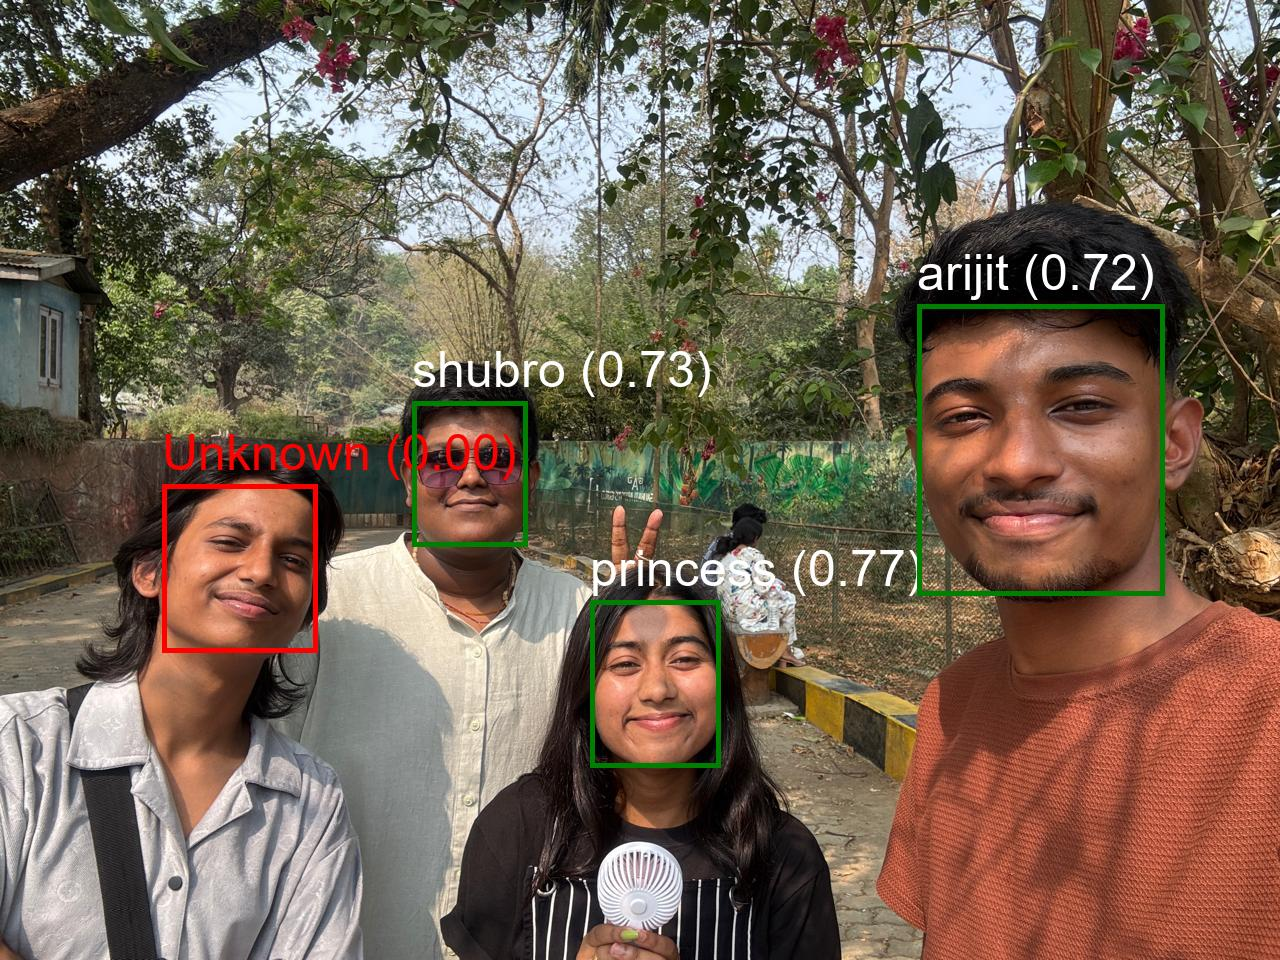
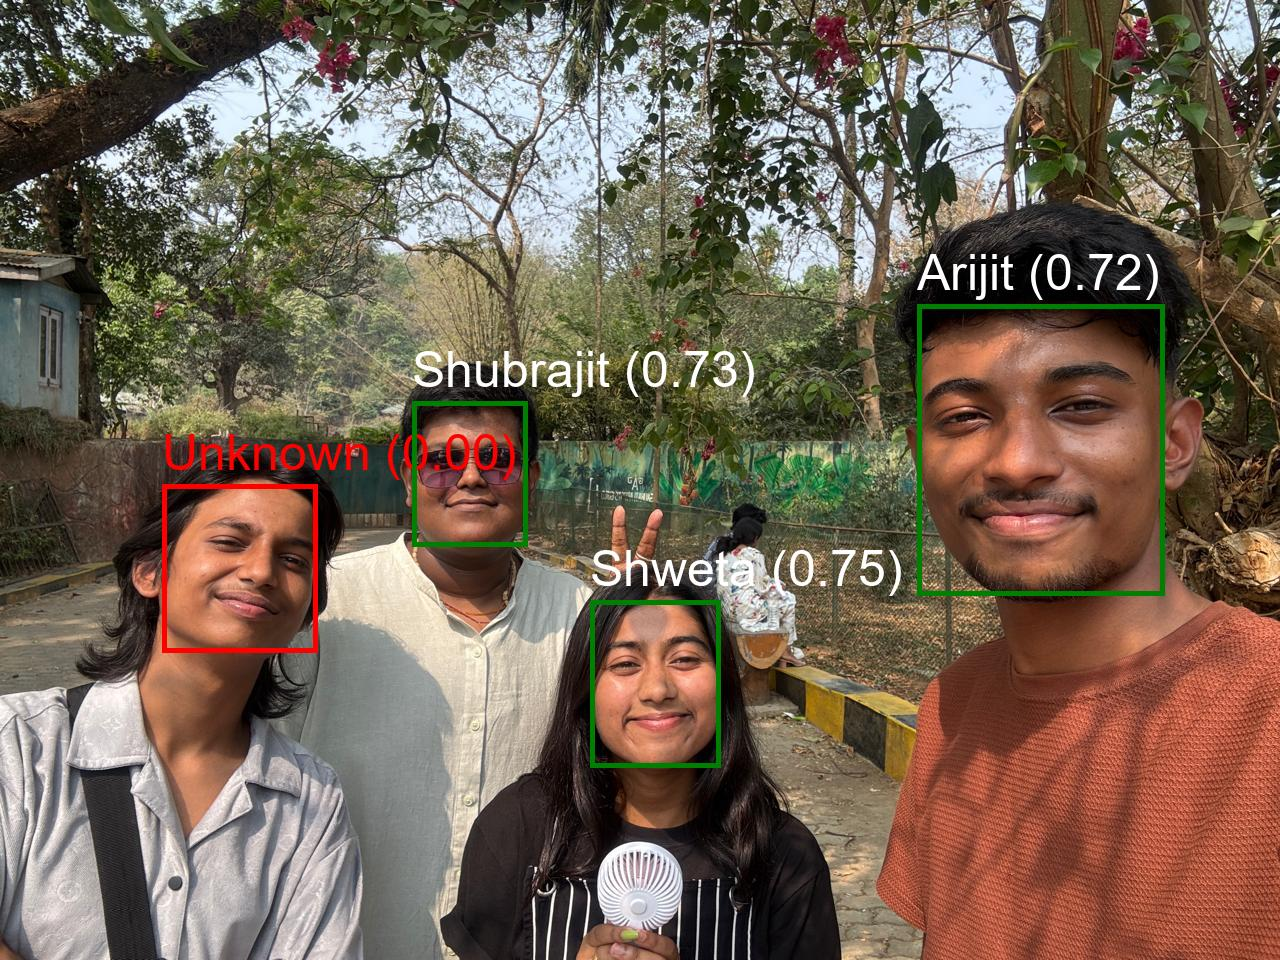
Initial

Changed region(s): [[0.4688, 0.5625, 0.7188, 0.625], [0.3125, 0.3438, 0.5938, 0.4062], [0.7188, 0.25, 0.9062, 0.3125]]

diff --git a/recognize.py b/recognize.py
@@ -1,34 +1,42 @@
 import os
 import cv2
 import numpy as np
-import torch
 from insightface.app import FaceAnalysis
 import pickle
 import matplotlib.pyplot as plt
 from PIL import Image, ImageDraw, ImageFont
 
-# Paths
+# Define Paths for Input and Output  
+# The `test-images` folder contains images to be processed.  
+# The `output` folder stores the annotated images after face recognition.  
 TEST_FOLDER = "test-images"
 OUTPUT_FOLDER = "output"
 os.makedirs(OUTPUT_FOLDER, exist_ok=True)
 
-# Load trained face embeddings
+# Load Stored Face Embeddings  
+# Precomputed face embeddings are loaded from a pickle file.  
+# The embeddings are normalized to unit vectors to allow cosine similarity comparisons.  
 with open("face_embeddings.pkl", "rb") as f:
     known_faces = pickle.load(f)
 
-# Convert known embeddings to unit vectors (normalize for cosine similarity)
 for name in known_faces:
-    known_faces[name] /= np.linalg.norm(known_faces[name])
+    known_faces[name] /= np.linalg.norm(known_faces[name])  # Normalize vectors
 
-# Initialize ArcFace Model
+# Initialize Face Recognition Model  
+# The InsightFace ArcFace model (`buffalo_l`) is used for face detection and feature extraction.  
+# The model runs on the CPU for compatibility.  
 app = FaceAnalysis(name='buffalo_l', providers=['CPUExecutionProvider'])
 app.prepare(ctx_id=0)
 
+# Define Function for Cosine Similarity Calculation  
+# Cosine similarity measures the similarity between two face embeddings.  
+# The score ranges from -1 to 1, where 1 means identical faces.  
 def cosine_similarity(a, b):
-    """Compute cosine similarity between two vectors."""
     return np.dot(a, b) / (np.linalg.norm(a) * np.linalg.norm(b))
 
-# Loop through all test images
+# Process Each Image in the Test Folder  
+# For each image, faces are detected, embeddings are extracted, and they are  
+# compared against stored embeddings to identify known individuals.  
 for image_name in os.listdir(TEST_FOLDER):
     image_path = os.path.join(TEST_FOLDER, image_name)
     img = cv2.imread(image_path)
@@ -40,52 +48,61 @@ for image_name in os.listdir(TEST_FOLDER):
     img_rgb = cv2.cvtColor(img, cv2.COLOR_BGR2RGB)
     faces = app.get(img_rgb)
 
-    # Convert image to PIL for annotation
+    # Convert Image to PIL Format for Annotation  
+    # The image is converted from OpenCV format to PIL to allow easier drawing of bounding boxes and text.  
     pil_img = Image.fromarray(img_rgb)
     draw = ImageDraw.Draw(pil_img)
 
+    # Load Font for Name Labels  
+    # A clear font (Arial) is used to display recognized names. If unavailable, a default font is used.  
     try:
-        font = ImageFont.truetype("arial.ttf", 50)  # Larger, clearer font
+        font = ImageFont.truetype("arial.ttf", 50)
     except:
         font = ImageFont.load_default()
 
-    recognized_names = set()  # Track names to avoid duplicates
+    recognized_names = set()  # Track recognized names to prevent duplicate annotations
 
     print(f"\nProcessing {image_name}:")
     for face in faces:
         embedding = face.normed_embedding
-        embedding /= np.linalg.norm(embedding)  # Normalize for cosine similarity
+        embedding /= np.linalg.norm(embedding)  # Normalize embedding vector
         bbox = face.bbox.astype(int)
 
-        # Compare with stored embeddings using cosine similarity
+        # Compare with Stored Embeddings to Identify the Person  
+        # Each detected face is compared with all stored embeddings using cosine similarity.  
         best_match = "Unknown"
-        best_similarity = 0.00  # Default for unknown
+        best_similarity = 0.00  
 
         for name, known_emb in known_faces.items():
             similarity = cosine_similarity(embedding, known_emb)
+
+            # Accept match if similarity is above 0.55 and the person is not already detected  
             if similarity > best_similarity and similarity > 0.55 and name not in recognized_names:
-                best_match = name
+                best_match = name.capitalize()
                 best_similarity = similarity
 
-        recognized_names.add(best_match)  # Add to set to prevent repeats
+        recognized_names.add(best_match)  # Prevent multiple detections of the same person
 
-        # Draw bounding box & name label
+        # Draw Bounding Box and Name Label  
+        # Faces are highlighted with bounding boxes, and their names are displayed above them.  
         box_color = "red" if best_match == "Unknown" else "green"
         draw.rectangle([bbox[0], bbox[1], bbox[2], bbox[3]], outline=box_color, width=5)
 
-        # Adjust text position
+        # Define Text Position and Color  
         text_position = (bbox[0], bbox[1] - 60)
         text_color = "red" if best_match == "Unknown" else "white"
-        
-        # Ensure 0.00 for unknowns
+
+        # Ensure similarity is displayed as 0.00 for unknown faces  
         similarity_display = f"{best_similarity:.2f}" if best_match != "Unknown" else "0.00"
-        
+
+        # Draw the Recognized Name and Similarity Score on the Image  
         draw.text(text_position, f"{best_match} ({similarity_display})", fill=text_color, font=font)
 
-        # Print to console with adjusted similarity score
+        # Print Recognition Result in Console  
         print(f" - Detected: {best_match} (Similarity: {similarity_display})")
 
-    # Save the processed image
+    # Save the Annotated Image  
+    # The processed image is saved in the `output` folder with the same filename.  
     output_path = os.path.join(OUTPUT_FOLDER, f"output_{image_name}")
     pil_img.save(output_path)
     print(f"Processed {image_name}, saved to {output_path}")

diff --git a/train.py b/train.py
@@ -1,83 +1,86 @@
 import os
 import cv2
 import numpy as np
-import pickle
-import torch
 import imgaug.augmenters as iaa
 import matplotlib.pyplot as plt
 import seaborn as sns
 from sklearn.manifold import TSNE
+from sklearn.preprocessing import StandardScaler
 from insightface.app import FaceAnalysis
 
-# Initialize ArcFace Model
+# Initialize Face Recognition Model  
+# Using InsightFace's ArcFace model ("buffalo_l") with CPU processing.  
+# The model is prepared to detect and extract facial embeddings from images.  
 app = FaceAnalysis(name='buffalo_l', providers=['CPUExecutionProvider'])
 app.prepare(ctx_id=0)
 
-# Path to dataset
+# Define Dataset Path and Output File  
+# The dataset contains multiple folders, each representing a different person.  
+# Extracted face embeddings will be saved to a file for future use.  
 DATASET_PATH = "dataset"
 OUTPUT_FILE = "face_embeddings.pkl"
 
-# Dictionary to store embeddings
-face_db = {}
+# Initialize Embeddings and Labels Storage  
+# This list stores feature vectors representing facial embeddings.  
+# Labels correspond to the folder names (individual identities).  
 embedding_vectors = []
 labels = []
 
-# Data augmentation pipeline
+# Apply Data Augmentation Techniques  
+# This pipeline introduces variations such as horizontal flips,  
+# small rotations, and brightness adjustments to improve robustness.  
 augmenter = iaa.Sequential([
-    iaa.Fliplr(0.5),  # Flip 50% of images
-    iaa.Affine(rotate=(-10, 10)),  # Rotate between -10 and 10 degrees
-    iaa.GammaContrast((0.8, 1.2))  # Adjust brightness
+    iaa.Fliplr(0.5),
+    iaa.Affine(rotate=(-10, 10)),
+    iaa.GammaContrast((0.8, 1.2))
 ])
 
-# Process each person's folder
+# Process Images in Each Folder  
+# Each folder represents a different person. For each image,  
+# facial embeddings are extracted and augmented variations are also processed.  
 for person_name in os.listdir(DATASET_PATH):
     person_path = os.path.join(DATASET_PATH, person_name)
 
     if os.path.isdir(person_path):
-        embeddings = []
-        
         for image_name in os.listdir(person_path):
             image_path = os.path.join(person_path, image_name)
             img = cv2.imread(image_path)
             img = cv2.cvtColor(img, cv2.COLOR_BGR2RGB)
 
-            # Augment and extract face embeddings
+            # Extract facial embeddings using the ArcFace model  
             faces = app.get(img)
             if len(faces) > 0:
-                embeddings.append(faces[0].normed_embedding)
+                embedding_vectors.append(faces[0].normed_embedding)
+                labels.append(person_name)
 
-            # Generate augmented images
+            # Generate and process augmented versions of the image  
             aug_img = augmenter.augment_image(img)
             faces_aug = app.get(aug_img)
             if len(faces_aug) > 0:
-                embeddings.append(faces_aug[0].normed_embedding)
+                embedding_vectors.append(faces_aug[0].normed_embedding)
+                labels.append(person_name)
 
-        if embeddings:
-            avg_embedding = np.mean(embeddings, axis=0)
-            face_db[person_name] = avg_embedding
-            
-            embedding_vectors.append(avg_embedding)
-            labels.append(person_name)
-
-# Save embeddings to file
-with open(OUTPUT_FILE, "wb") as f:
-    pickle.dump(face_db, f)
-
-print(f"Training complete! Embeddings saved to {OUTPUT_FILE}")
-
-# Convert embeddings to numpy array
+# Normalize and Transform Embeddings  
+# Convert embeddings into a NumPy array and standardize them  
+# to improve the performance of dimensionality reduction algorithms.  
 embedding_vectors = np.array(embedding_vectors)
+embedding_vectors = StandardScaler().fit_transform(embedding_vectors)
 
-# Perform t-SNE for better visualization
-tsne = TSNE(n_components=2, perplexity=min(5, len(embedding_vectors) - 1),learning_rate=50, random_state=42)
-
+# Apply t-SNE for Dimensionality Reduction  
+# Reduces high-dimensional face embeddings into a 2D space  
+# for visualization while maintaining meaningful cluster relationships.  
+tsne = TSNE(n_components=2, perplexity=min(10, len(embedding_vectors) - 1),
+            learning_rate=50, random_state=42)
 reduced_embeddings = tsne.fit_transform(embedding_vectors)
 
-# Plot face clusters
+# Visualize Face Embedding Clusters  
+# Each point represents a unique image, and colors indicate  
+# different individuals based on folder names.  
 plt.figure(figsize=(8, 6))
-sns.scatterplot(x=reduced_embeddings[:, 0], y=reduced_embeddings[:, 1], hue=labels, palette='deep', s=100)
+sns.scatterplot(x=reduced_embeddings[:, 0], y=reduced_embeddings[:, 1], hue=labels, palette='tab10', s=80, alpha=0.8)
+
 plt.xlabel("t-SNE Component 1")
 plt.ylabel("t-SNE Component 2")
 plt.title("Face Embeddings Clustering using t-SNE")
-plt.legend()
+plt.legend(title="Folders", loc="best", bbox_to_anchor=(1, 1))
 plt.show()
